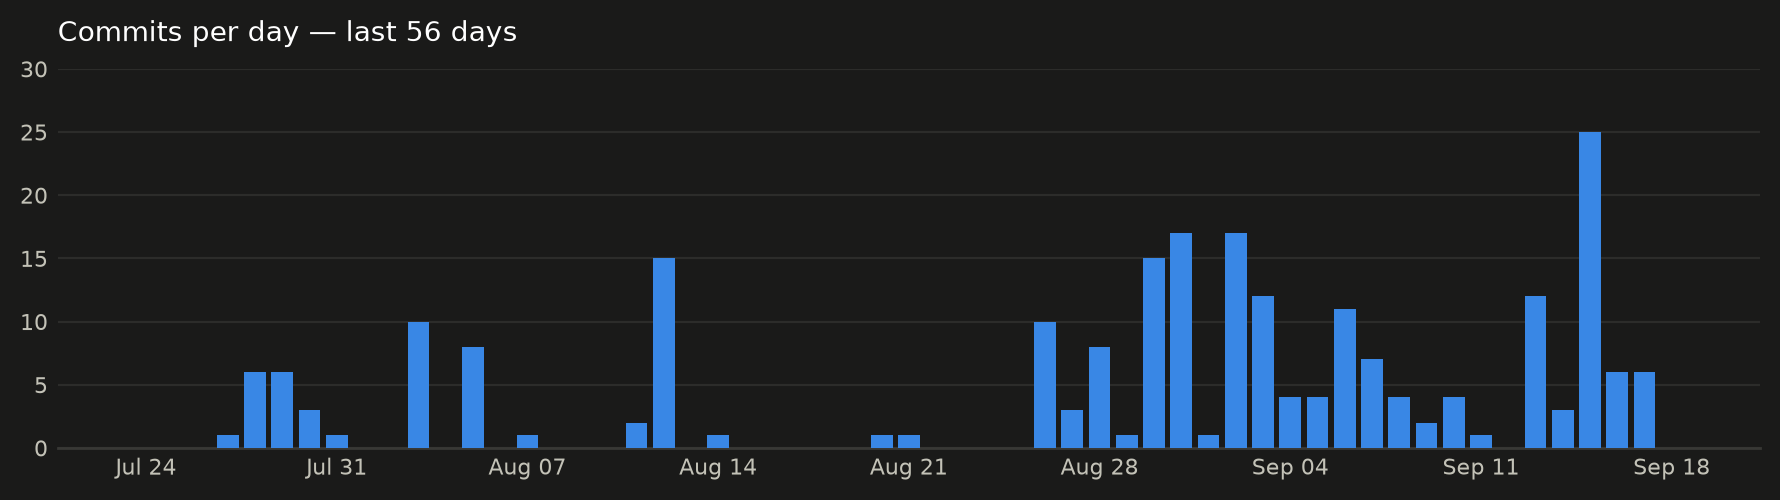
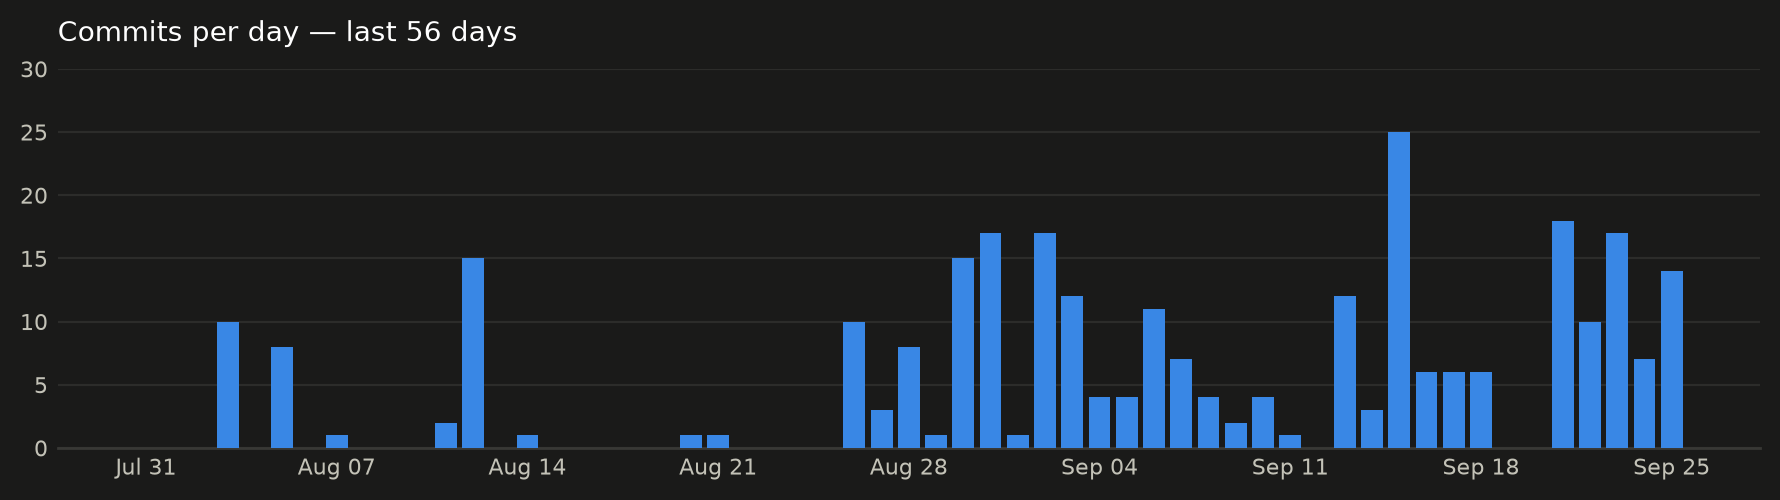
chore: update org README stats

diff --git a/profile/README.md b/profile/README.md
@@ -35,7 +35,7 @@ Placeholder: TieTech Innovations builds ___. We focus on ___ for ___.
 ## 📊 Commit activity
 
 <!-- STATS:START -->
-In the last 56 days: **229** commits across **8/56** active repos (**55** private).
+In the last 56 days: **284** commits across **10/58** active repos (**57** private).
 
 <picture>
   <source media="(prefers-color-scheme: dark)" srcset="assets/commit-graph-dark.png">
@@ -44,16 +44,16 @@ In the last 56 days: **229** commits across **8/56** active repos (**55** privat
 
 **Most active repos**
 
-- `chatbot-saas` — 87 commits
-- `social-media-pipeline` — 46 commits
-- `minaya-backend` — 42 commits
-- `minaya-docs` — 21 commits
-- `ledger-pro-backend` — 15 commits
+- `chatbot-saas` — 86 commits
+- `minaya-backend` — 56 commits
+- `social-media-pipeline` — 54 commits
+- `minaya-docs` — 25 commits
+- `cold-marketing-agent` — 20 commits
 
 **Top contributors**
 
-- ZainMustafaaa — 153 commits
-- abdullahumar2002 — 24 commits
+- ZainMustafaaa — 211 commits
+- abdullahumar2002 — 19 commits
 - MajidImtiaz — 17 commits
 - sanaejaz — 12 commits
 - github-actions[bot] — 10 commits
@@ -62,5 +62,5 @@ In the last 56 days: **229** commits across **8/56** active repos (**55** privat
 <!-- STATS:END -->
 
 <div align="center">
-<sub>Last updated: 2026-09-18 18:55 UTC</sub>
+<sub>Last updated: 2026-09-25 19:53 UTC</sub>
 </div>
